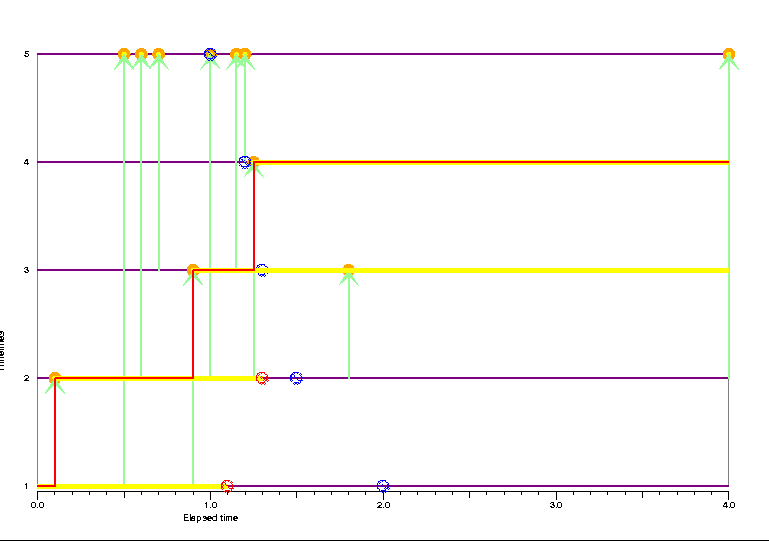
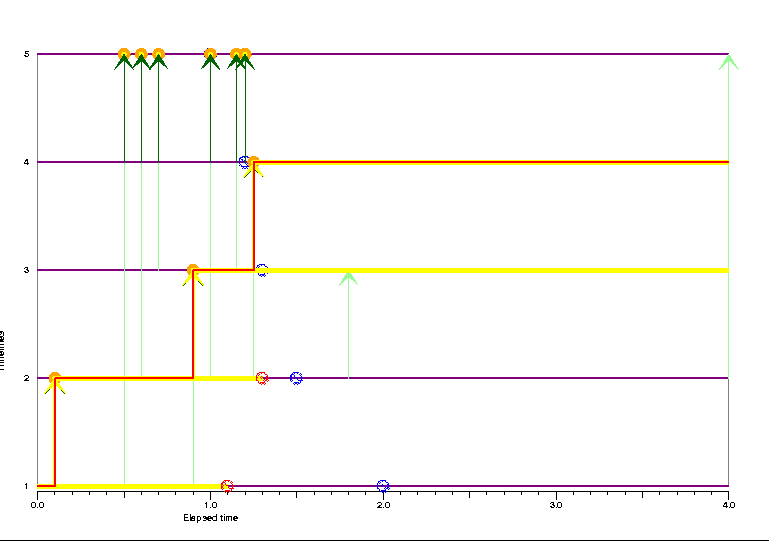
Refactored so that computations are carried out mostly in epidemic.py. Altered README.pdf. Added graphic elements to focus attention on when infections are latent not just putative.

diff --git a/python/KEY.md b/python/KEY.md
@@ -4,9 +4,19 @@
 
 
 
-`11-pI`: locates potential infection (as a yellow circle with orange boundary on row that would be infected).
+`11-pI-lo`: putative infection circumstances (thin pale green arrow, running from putative infecting row to row that would be infected).
 
-`11-pI-lo`: potential infection (thin pale green arrow, running from putative infecting row to row that would be infected).
+For this infection actually to happen, the putative infecting row must be infected at the time of the
+infection, and the row to be infected must be the lowest row susceptible at time of infection.
+
+`12-lI`: locates latent infection (as a yellow circle with orange boundary on row that would be infected).
+
+`12-lIc`: latent infection circumstances (thin dark green arrow, running from latent previously highest infected to new latent highest infected).
+
+For this infection actually to happen, the putative infecting row must be infected at the time of the
+infection, and the row to be infected must be the lowest row susceptible at time of infection.
+
+`12-aI`: activated infection (thick dark green arrow, running from previously highest infected to new highest infected).
 
 For this infection actually to happen, the putative infecting row must be infected at the time of the
 infection, and the row to be infected must be the lowest row susceptible at time of infection.
@@ -15,7 +25,7 @@ infection, and the row to be infected must be the lowest row susceptible at time
 
 `12-Epidemic`: traces most recently infected individual that is currently infected (as a thin red line).
 
-`11-pR`: potential removal (blue no-way sign).
+`11-pR`: putative removal (blue no-way sign).
 
 For this removal actually to take effect, the row on which it sits must be infected at the relevant time.
 The lowest row currently infected will then suffer a removal.

diff --git a/python/README.md b/python/README.md
@@ -46,6 +46,10 @@ Note the form of the `Innovations` structure:
      0.50   (0, 2, 1)
      1.30   (0, 1, 2)
      2.00   (0, 0, 3)
+     Infections at:
+     [0, 0.2, 0.4]
+     Removals at:
+     [0.5, 1.3, 2]
 
 ![A graphical illustration of the resulting free SIR epidemic](image/figure1.png "Free epidemic")
 
@@ -88,4 +92,4 @@ commandline specification, as well as clarifying the elements of more complicate
 Note that reinstated elements are placed at the top layer of the image; this means that
 a double-click will make the relevant elements more prominent.
 
-The colour coding in the screenshot is described in `static.cfg`:
+The colour coding in the screenshot is described in `static.cfg` as follows:

diff --git a/python/TODO.md b/python/TODO.md
@@ -10,7 +10,7 @@ Still to be done
  - More general compartment models?
 
 ### Coding:
- - Colour-code potential infections according to whether or not they are active.
+ - **DONE:** Colour-code potential infections according to whether or not they are active.
  - Introduce conditioned observed removals(!).
  - Compute Mordor, no-fly zone, and last feasible infections.
  - Produce a dynamic version, which updates according to our algorithm using a new `Innovations` instance.
